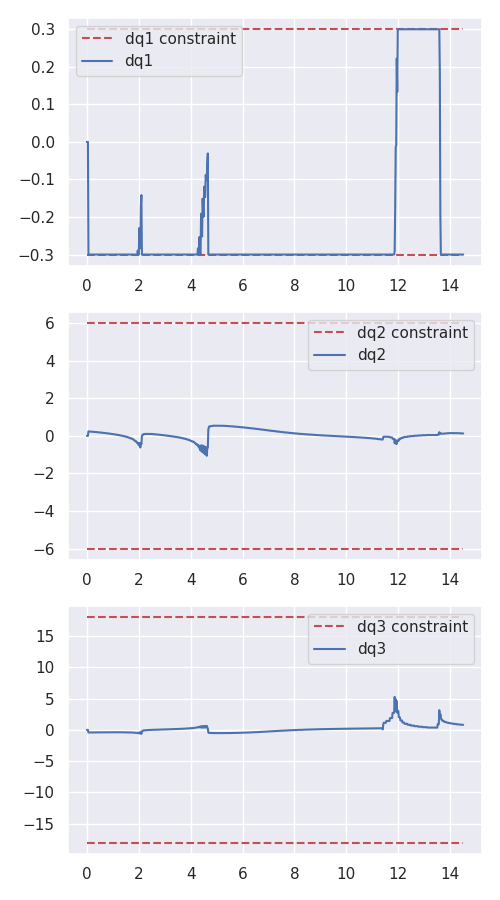
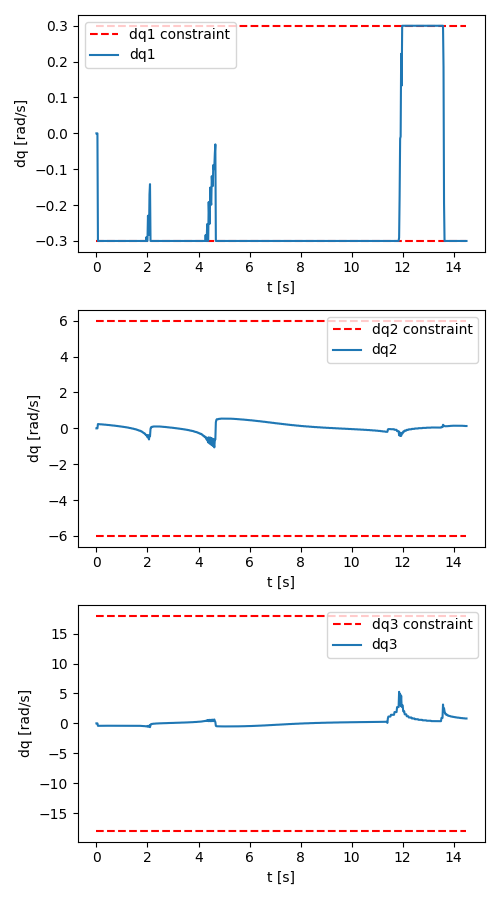
update

diff --git a/plot.py b/plot.py
@@ -2,9 +2,6 @@ import shelve
 
 import matplotlib.pyplot as plt
 import numpy as np
-import seaborn as sns
-
-sns.set_theme()
 from constants import velocity_constraint
 
 
@@ -14,11 +11,12 @@ def plot_dq_constraints(state):
     matrix_axs = np.array(matrix_axs).reshape((nrows, ncols))
     t = state[:, 0]
     for i in range(3):
-        matrix_axs[i,0].hlines(np.array([-velocity_constraint[i], velocity_constraint[i]]), t[0], t[-1], label=f'dq{i+1} constraint', linestyle="--", color="r")
-        matrix_axs[i,0].plot(t, state[:, 4+i], label=f'dq{i+1}')
-
-    for ax in matrix_axs.flatten():
+        ax = matrix_axs[i, 0]
+        ax.hlines(np.array([-velocity_constraint[i], velocity_constraint[i]]), t[0], t[-1], label=f'dq{i + 1} constraint', linestyle="--", color="r")
+        ax.plot(t, state[:, 4 + i], label=f'dq{i + 1}')
         ax.legend()
+        ax.set_ylabel("dq [rad/s]")
+        ax.set_xlabel("t [s]")
     plt.savefig("dq_constraints.png")
 
 
